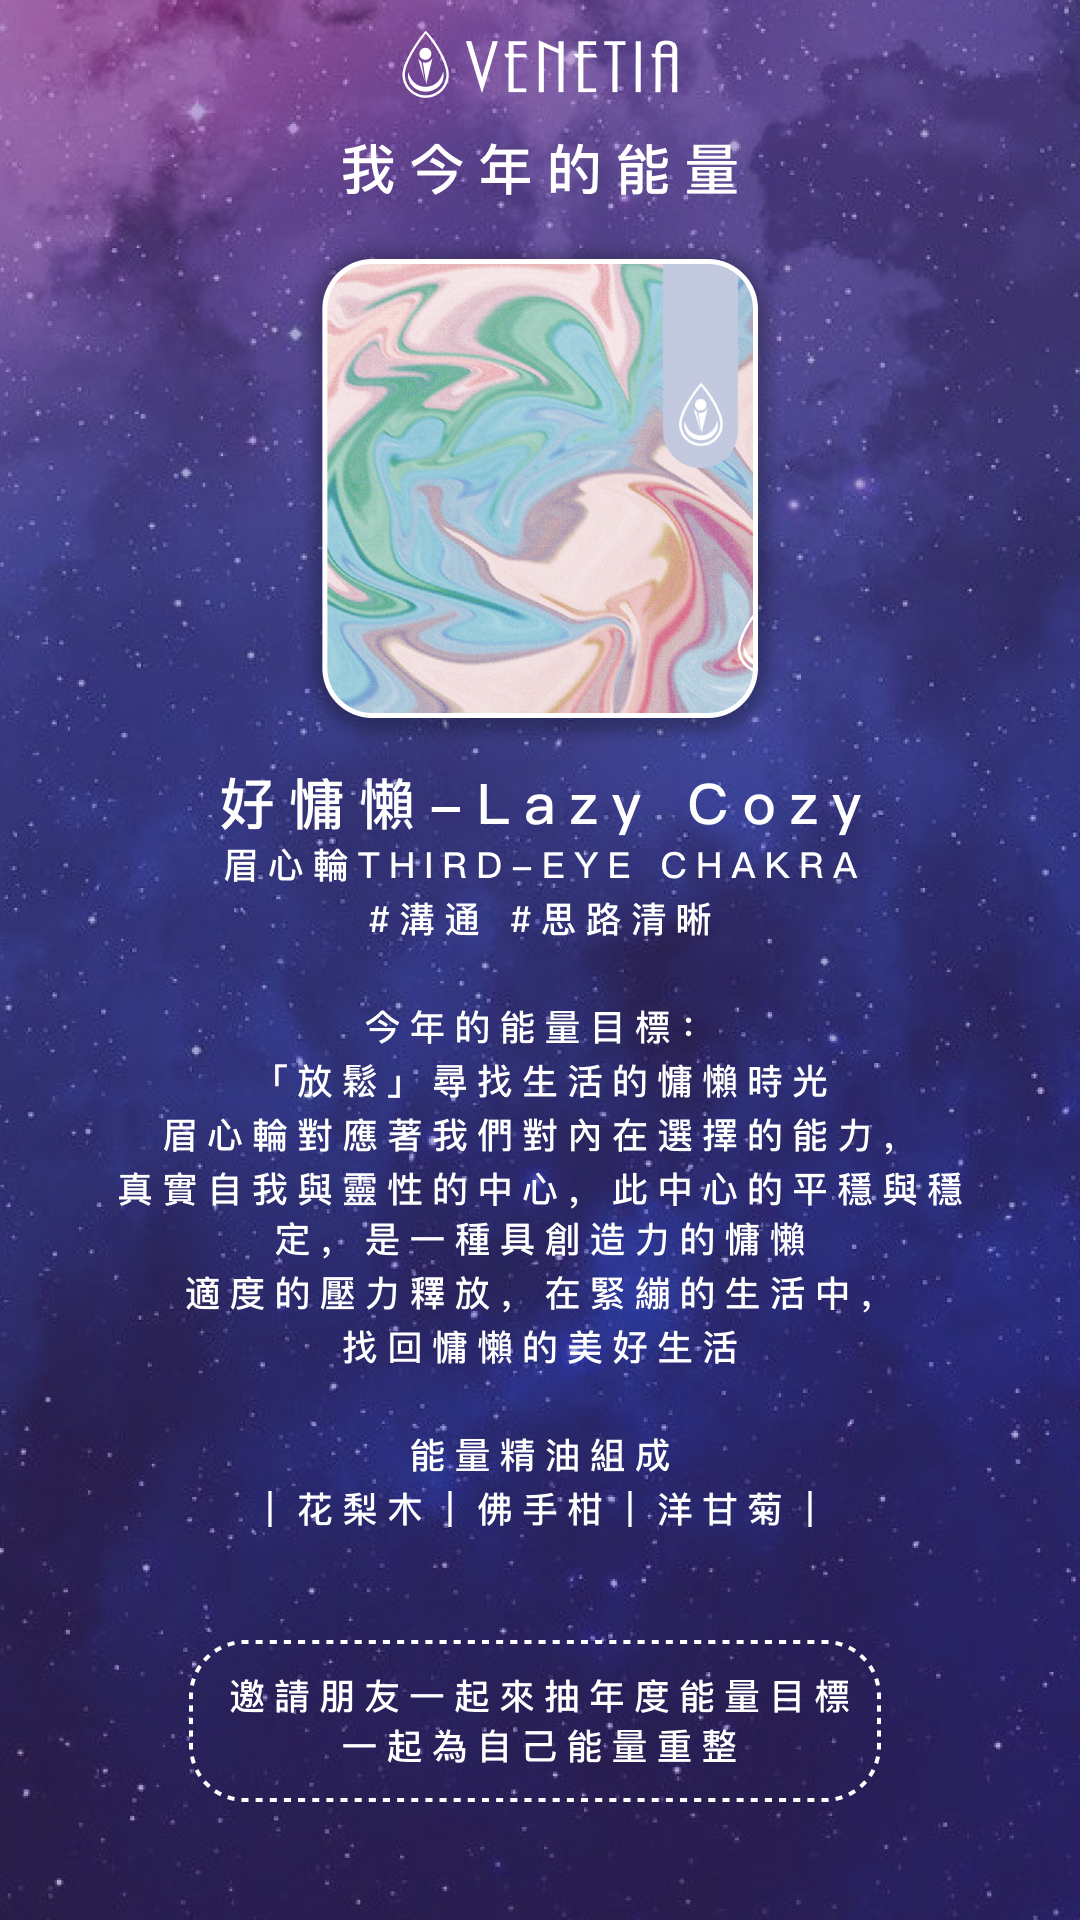
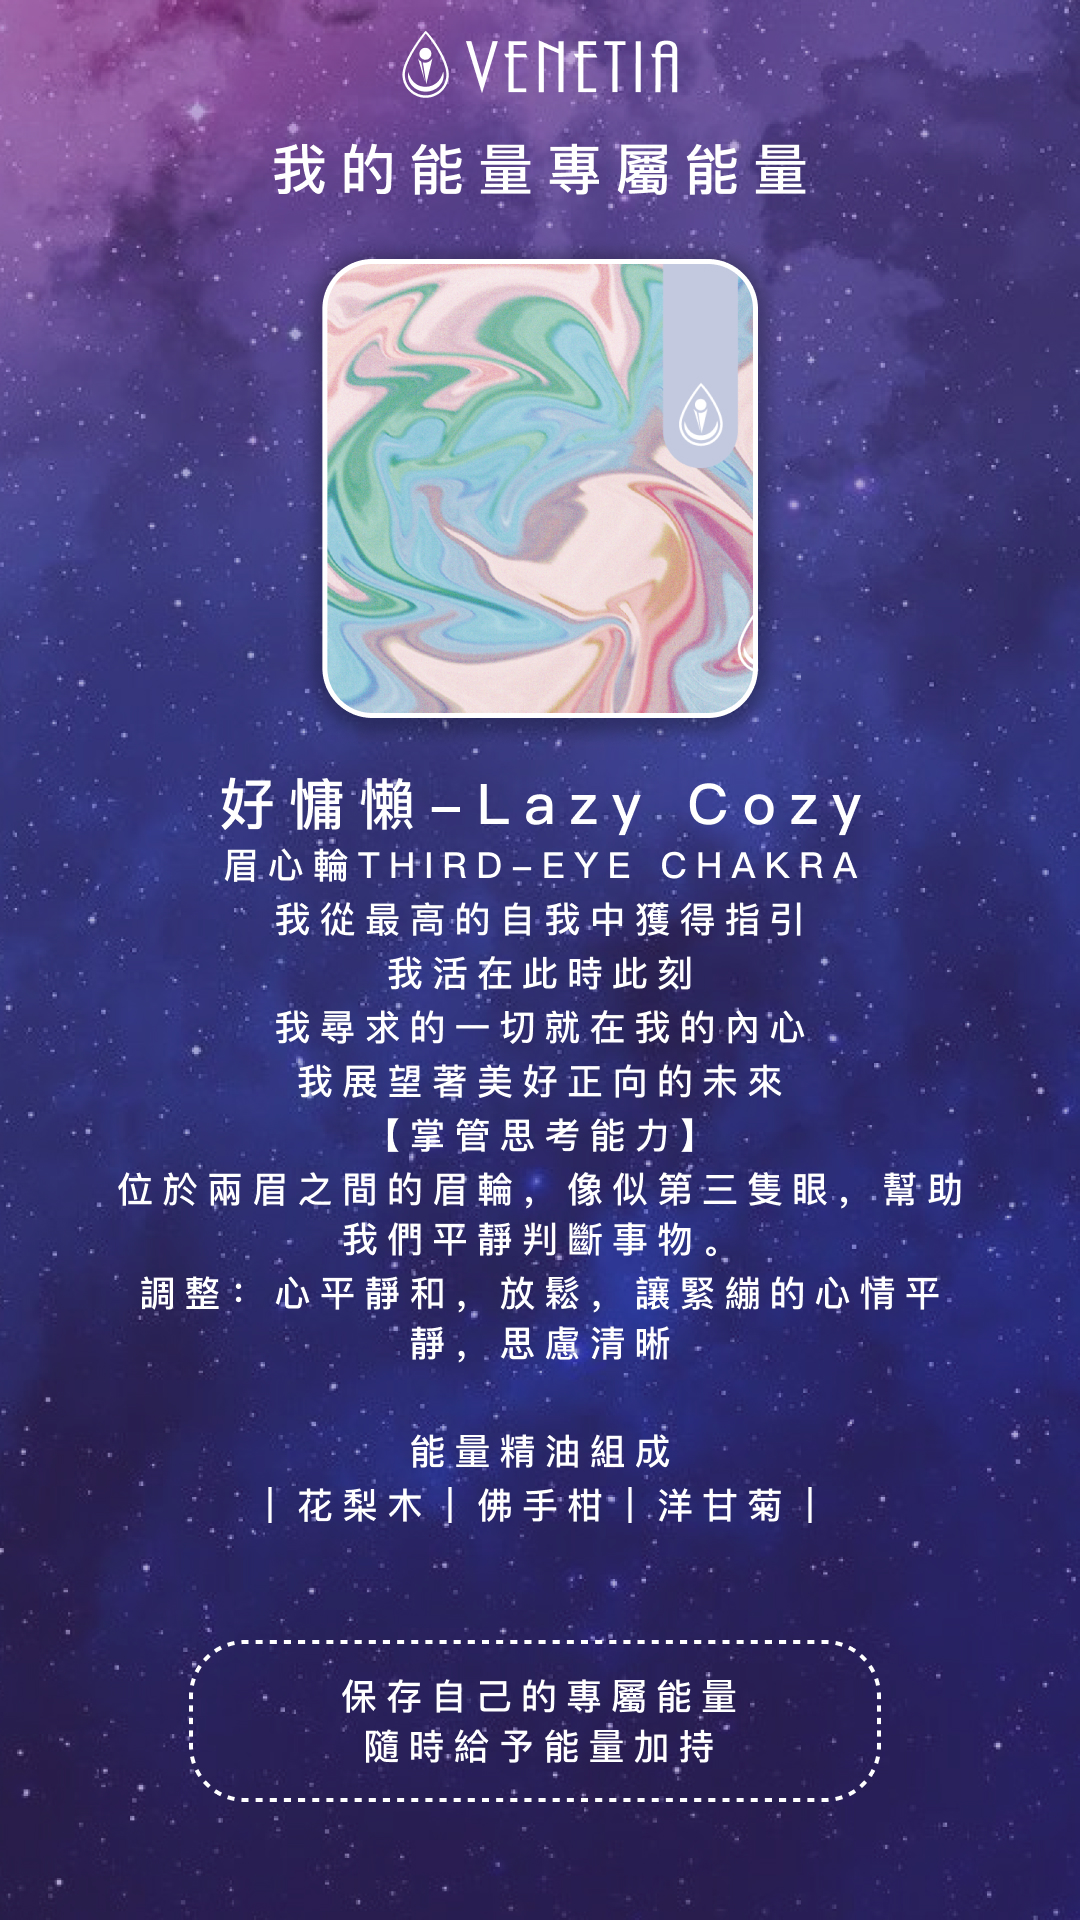
更新文字

diff --git a/reveal_card.html b/reveal_card.html
@@ -91,7 +91,7 @@
   {
     "cardTitle": "好暖活-Kindly Warm",
     "cardSubtitle": "海底輪 ROOT CHAKRA<br>#專注 #平靜",
-    "cardInfo": "今年的能量目標：生活重心的「回歸」<br>新的一年，回歸最初始的自己，幫助回歸平衡，你會發現滿滿的富足與幸福感。",
+    "cardInfo": "我所經歷的一切充滿幸福<br>我能達到一切<br>我捨棄所有狹隘的信念<br>我使我的內心神聖無畏<br>【掌管生存本能】<br>海底輪為最底輪，主導一切生存，保持最佳身心狀態與安全感，對於命與生活充滿熱情與溫暖。<br>調整：身體與心靈缺乏的安全感",
     "cardOil":"｜檸檬馬鞭草、薄荷、佛手柑｜",
     "cardImage": "7.png",
     "link": "https://www.savunbio.com/products/kindlywarm",
@@ -100,7 +100,7 @@
   {
     "cardTitle": "好桃花-Fate of love",
     "cardSubtitle": "臍輪SACRAL CHAKRA<br>#自信魅力 #吸引力",
-    "cardInfo": "今年的能量目標：「理解」與接納情感關係<br>帶給你擁有自我滿足的情緒，多點理解與接納彼此，才有能量去開啟情感關係的對話。",
+    "cardInfo": "我的體內平靜安穩<br>我選擇每天充滿快樂<br>我毫無畏懼情感關係<br>【掌管兩性與人際關係】<br>臍輪代表性的能力，為人性根本，代表慾望及人際關係，掌握生活愉悅事物，並對人保持尊重與包容。<br>調整：和諧的情侶關係、改善人際關係",
     "cardOil":"｜薰衣草｜薄荷｜洋甘菊｜",
     "cardImage": "6.png",
     "link": "https://www.savunbio.com/products/fate-in-love",
@@ -109,7 +109,7 @@
   {
     "cardTitle": "好旺旺-Good Luck",
     "cardSubtitle": "太陽神經叢 SOLAR PLEXUS CHAKRA <br>#正能量 #運氣提升",
-    "cardInfo": "今年的能量目標：自我目標的「實現」<br>自我成就的突破、勇於面對一切，自信的面對接下來的挑戰",
+    "cardInfo": "我充滿能量<br>我可以達到一切<br>我是我生命中的建築者<br>我充分的享受我的人生<br>【掌管自我認同】<br>太陽神經叢幫助找尋自我認同感，感受自我，尋找自己的定位，傾聽內心真正的聲音。<br>調整：尋找自我，發自內心的自信心",
     "cardOil":"｜薄荷｜檸檬馬鞭草｜洋甘菊｜",
     "cardImage": "4.png",
     "link": "https://www.savunbio.com/products/good-luck",
@@ -117,8 +117,8 @@
   },
   {
     "cardTitle": "好心情-Good Mood",
-    "cardSubtitle": "心輪 HEART CHAKRA",
-    "cardInfo": "今年的能量目標：理性且「出淤泥而不染」<br>每天都會有各種情緒在紛擾自己，學著像朵純潔蓮花一樣，理性面對一切，將情緒化為養分。",
+    "cardSubtitle": "心輪 HEART CHAKRA <br>#安全感" ,
+    "cardInfo": "我愛且接受自己<br>我的心是敞開的<br>我是平靜的<br>我相信自我也相信這一切<br>【掌管愛與安全感】<br>心輪是內在與外在連結的脈輪，如潔淨美麗的蓮花，出淤泥而不染，一切事物皆在掌握之中。<br>調整：以理性視野看待一切。",
     "cardOil":"｜檸檬馬鞭草｜薄荷｜佛手柑｜",
     "cardImage": "2.png",
     "link": "https://www.savunbio.com/products/good-mood",
@@ -127,7 +127,7 @@
   {
     "cardTitle": "好自然-Step in Nature",
     "cardSubtitle": "喉輪THROAT CHAKRA<br>#回歸自我 #調整身心",
-    "cardInfo": "今年的目標：「集結」聆聽他人，深化自我<br>喉輪上達宇宙訊息、下引大地資源，能量匯集，深化自我。今年的你適合多與他人連結、集結他人散發的正面及知識，一切能量將轉化為自身能量。",
+    "cardInfo": "我為自己發聲<br>我的聲音純淨有力量<br>創造力在我的體內流動<br>我是自己的導引<br>【掌管溝通能力】<br>喉輪幫助我們認清自我，並向外人表達真誠情感。<br>調整：調整自己的溝通與內省，展現人際關係的自在與自信",
     "cardOil":"｜薄荷｜花梨木｜檸檬馬鞭草｜",
     "cardImage": "3.png",
     "link": "https://www.savunbio.com/products/step-in-nature",
@@ -136,7 +136,7 @@
   {
     "cardTitle": "好慵懶-Lazy Cozy",
     "cardSubtitle": "眉心輪THIRD-EYE CHAKRA<br>#溝通 #思路清晰",
-    "cardInfo": "今年的能量目標：「放鬆」尋找生活的慵懶時光<br>眉心輪對應著我們對內在選擇的能力，真實自我與靈性的中心，此中心的平穩與穩定，是一種具創造力的慵懶，適度的壓力釋放，在緊繃的生活中，找回慵懶的美好生活",
+    "cardInfo": "我從最高的自我中獲得指引<br>我活在此時此刻<br>我尋求的一切就在我的內心<br>我展望著美好正向的未來<br>【掌管思考能力】<br>位於兩眉之間的眉輪，像似第三隻眼，幫助我們平靜判斷事物。<br>調整：心平靜和，放鬆，讓緊繃的心情平靜，思慮清晰",
     "cardOil":"｜花梨木｜佛手柑｜洋甘菊｜",
     "cardImage": "5.png",
     "link": "https://www.savunbio.com/products/lazy-cozy",
@@ -145,7 +145,7 @@
   {
     "cardTitle": "好好睡-Relaxing & Release",
     "cardSubtitle": "頂輪CROWN CHAKRA<br>#舒壓解悶 #助眠",
-    "cardInfo": "今年的能量目標：睡眠的「重整」，自我對話<br>睡眠在生活中是非常重要的，多數人在每天的工作壓力中難以入眠，不安在腦中打轉，讓自己每天保持良好的睡眠，能幫助平靜思慮、重整",
+    "cardInfo": "我深根在這<br>我屬於這裡<br>我放下一切懷疑與擔憂<br>我擁有一切我需要的。<br>【掌管靈性、人體能量的中心】<br>專注自我，靜夜中自我平靜對話，深夜中感受內心溫暖。<br>調整：平靜內在，自我對話，並給予身心良好睡眠。",
     "cardOil":"｜佛手柑｜薰衣草｜花梨木｜",
     "cardImage": "1.png",
     "link": "https://www.savunbio.com/products/relaxingrelease",

diff --git a/choose_card.html b/choose_card.html
@@ -30,7 +30,7 @@
    <div id="particles-js">
  <img id="spin2" src="spinngWeel.png"></img>
 
-  <h1 class="title">選擇一張卡</h1>
+  <h1 class="title">請抽取一張卡片</h1>
   <div class="container">
     <div class="row">
     <a class="link_wrapper col-6 p-3" href="reveal_card.html"><img class="mycard animate__animated animate__flipInX" id="card1" src="card.png"></a>

diff --git a/index.html b/index.html
@@ -27,8 +27,8 @@
       <img id="spin" src="spinngWeel.png"></img>
     </div>
     <h1>凡娜緹雅</h1>
-    <h1>2022年度目標占卜</h1>
-    <a id="btn" href="choose_card.html">開始占卜</a>
+    <h1>七脈輪精油能量占卜</h1>
+    <a id="btn" href="choose_card.html">開始</a>
   </div>
 
 </div>
